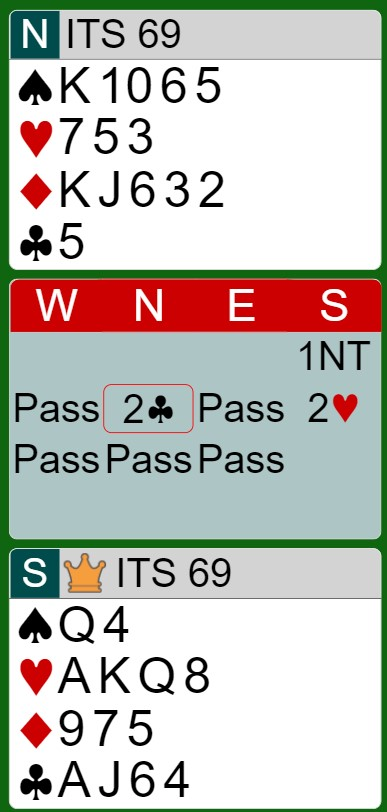
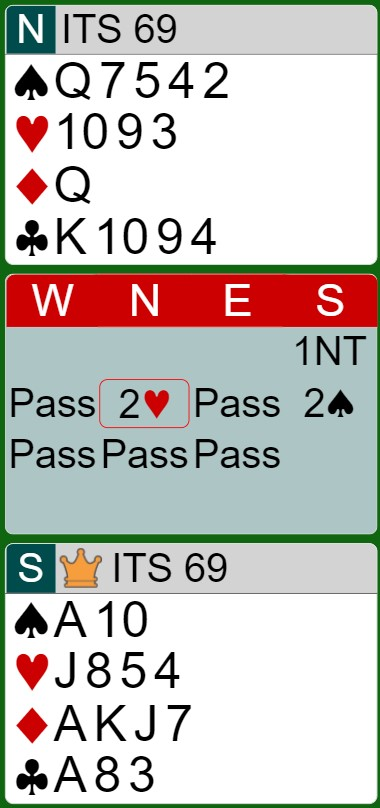
invite 1nt example

Changed region(s): [[0.0, 0.0, 1.0, 1.0]]

diff --git a/Bidding/ITS Precision/Examples/1NT-Strong/readme.md b/Bidding/ITS Precision/Examples/1NT-Strong/readme.md
@@ -14,8 +14,10 @@
 ## Part Score
 
 Tujuan bidding part score berarti ingin bermain serendah rendahnya. <br>
+HCP 0-6 <br>
+HCP 7 saat distribusi jelek<br>
 
-## 1NT-P
+## Part Score : 1NT
 
 **Contoh 1**<br>
 Pilih Pass karena hanya 7 HCP, kalau coba bid 2C, dijawab apapun bingung karena kurang HCP. worst case malah invite ketemu 16 HCP di-gas game oleh opener sehingga main game dengan 23 HCP tanpa ada 5 lembar untuk running. Sangat susah untuk bikin kontraknya<Br>
@@ -45,21 +47,50 @@ width="150" height="300">
 </p>
 
 
-## 1NT-2D/2H
-7 HCP, kalau invite bisa di gas game opener 7 + (16-17) = (23-24) HCP.<br>
-sehingga part score-an saja lebih aman, untuk part score di Major, hanya perlu lakukan transfer lalu pass.<br>
+## Part Score: 1NT-2D/2H
+
+Untuk part score di Major, hanya perlu lakukan transfer lalu pass.<br>
 
 **Contoh 1**<br>
+7 HCP, kalau invite bisa di gas game opener 7 + (16-17) = (23-24) HCP. sehingga part score-an saja lebih aman.<br>
+
 <p align="center">
 <img 
 src="./Assets/part-score-003.jpg" 
 width="150" height="300">
 </p>
 
+
+## Invite
+
+HCP Invite = 8 <br>
+7 HCP jika distribusi bagus (siap bermain game 23 HCP) <br>
+Jika HCP Opener :
+- Minimum / 15 : Tidak game
+- Maximum / 16-17 : Game
+
+## invite: 1NT-2C
+
+**Contoh 1**<br>
+HCP 7 cukup untuk melakukan stayman, serta siap dengan segala bid yang mungkin di bid oleh opener.<br>
+Jika :
+- 2D => di pass main 2D
+- 2H => di pass main 2H gpp fit 7 lembar ada singleton membantu
+- 2S => karena ada singleton dan fit Spade, bisa invite
+- 2NT => HCP opener minimum, gak game, bid 3H transfer to 3S
+- 3C => HCP opener maximum, gas game, bid 4H transfer to 4S
+
+Note : singleton saat bermain kontrak suit sangat membantu karena seperti punya king atau second round control.<br>
+
+<p align="center">
+<img 
+src="./Assets/invite-001.jpg" 
+width="150" height="300">
+</p>
+
+
 <p align="center">
 <img 
 src="./Assets/part-score-005.jpg" 
 width="150" height="300">
 </p>
-
-
